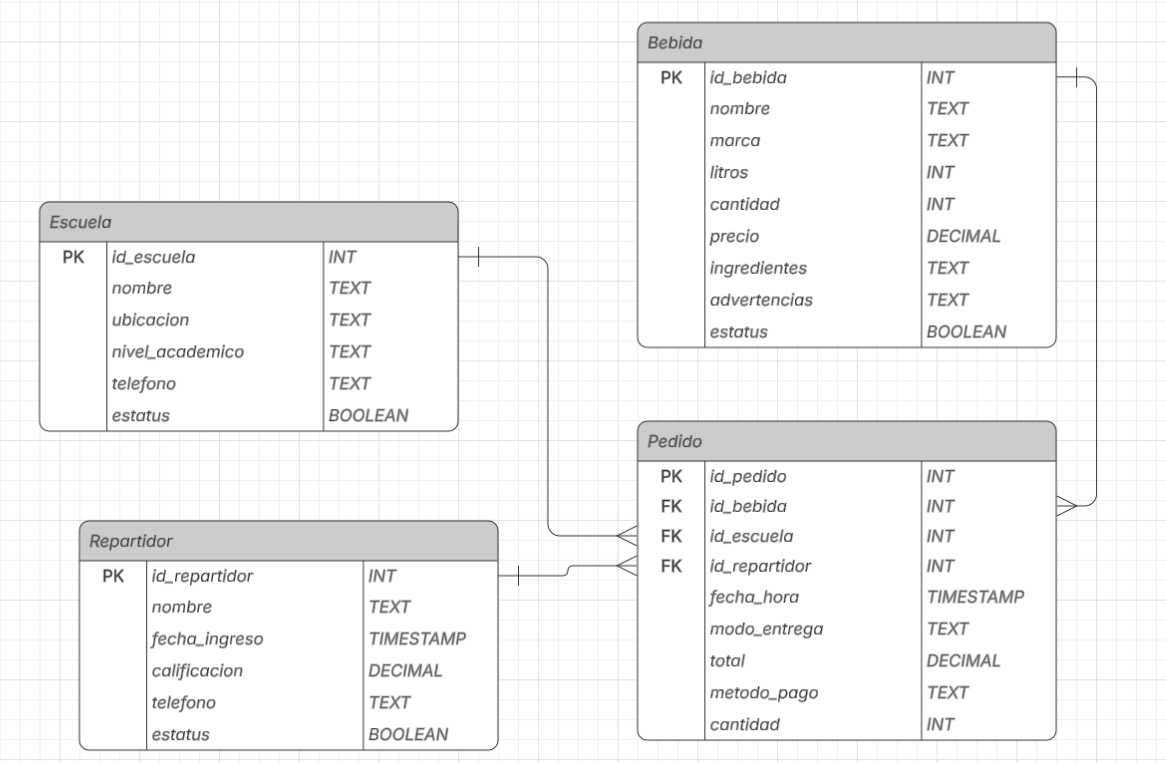
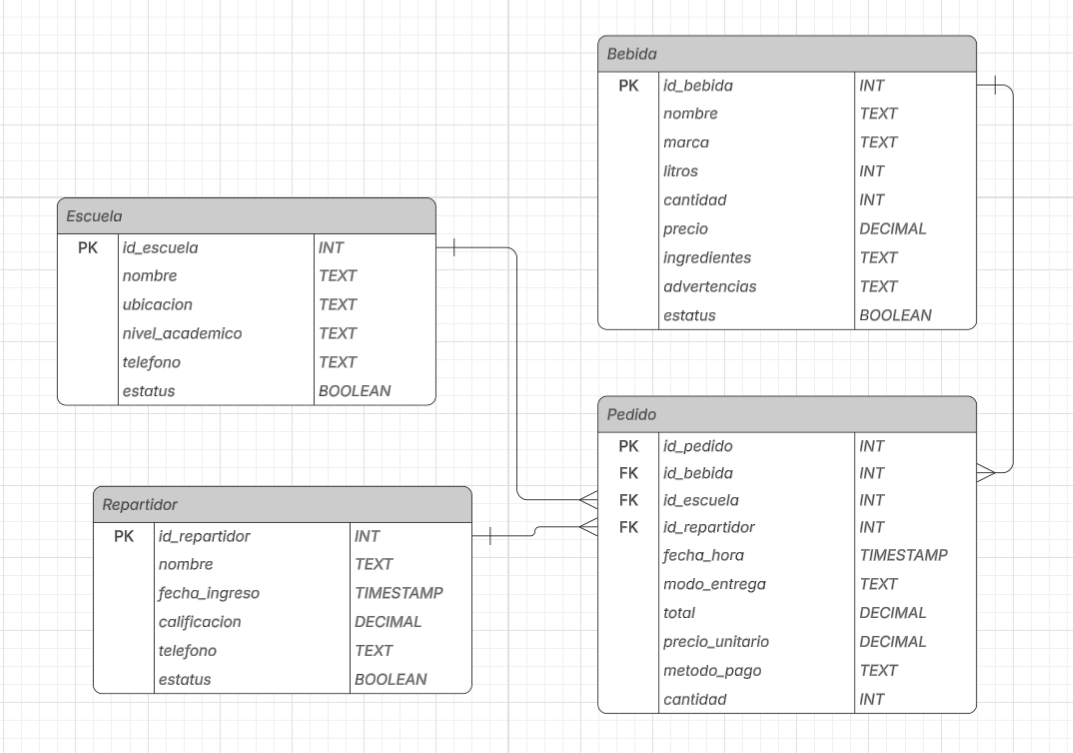
Corregi unos detalles

Changed region(s): [[0.0308, 0.0, 0.9534, 1.0], [0.5228, 0.8247, 0.5536, 0.8552], [0.5228, 0.2444, 0.5536, 0.2749]]

diff --git a/Backend/app/application/services/escuela_service.py b/Backend/app/application/services/escuela_service.py
@@ -17,7 +17,7 @@ class EscuelaService:
             nivel_academico=nivel_academico,
             telefono=telefono
         )
-        self.repository.agregar(escuela=escuela)
+        return self.repository.agregar(escuela=escuela)
     
     def ver_escuela(self,id_escuela:int):
         return self.repository.ver_por_id(id_escuela=id_escuela)

diff --git a/Backend/app/infrastructure/db/supabase/escuela_repository_supabase.py b/Backend/app/infrastructure/db/supabase/escuela_repository_supabase.py
@@ -12,6 +12,7 @@ class SupabaseEscuelaRepository(EscuelaRepository):
         resultado = cursor.fetchone()
         cursor.close()
         return resultado[0]
+    
     def ver_por_id(self, id_escuela):
         cursor=conn.cursor()
         cursor.execute("SELECT * FROM ver_escuela_por_id(%s)", (id_escuela,))